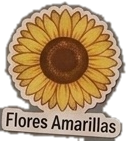
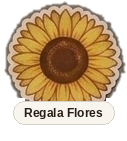
feat(hero): only modlovelace on closed door, modfin to the right, prominent poster, catjang-sue and regala flores stickers

Changed region(s): [[0.0, 0.6809, 0.9685, 1.0]]

diff --git a/src/components/sections/locker-hero.tsx b/src/components/sections/locker-hero.tsx
@@ -239,8 +239,8 @@ export function LockerHero() {
                   style={{
                     left: "64.5%",
                     top: "27.5%",
-                    width: "20%",
-                    aspectRatio: "240/115",
+                    width: "20.5%",
+                    aspectRatio: "243/149",
                     transformOrigin: "center center",
                     transitionDelay: stickersPopped ? "0ms" : "80ms",
                   }}
@@ -269,9 +269,9 @@ export function LockerHero() {
                   }`}
                   style={{
                     left: "66.5%",
-                    top: "39.5%",
-                    width: "11.5%",
-                    aspectRatio: "1/1",
+                    top: "40.5%",
+                    width: "12%",
+                    aspectRatio: "136/127",
                     transformOrigin: "center center",
                     transitionDelay: stickersPopped ? "90ms" : "40ms",
                   }}
@@ -291,7 +291,7 @@ export function LockerHero() {
                   </div>
                 </div>
 
-                {/* Pegatina 2: Flores Amarillas */}
+                {/* Pegatina 2: Regala Flores */}
                 <div
                   onClick={(e) => {
                     e.stopPropagation();
@@ -304,24 +304,24 @@ export function LockerHero() {
                   }`}
                   style={{
                     left: "73.5%",
-                    top: "49.5%",
-                    width: "13.5%",
-                    aspectRatio: "1/1",
+                    top: "51.0%",
+                    width: "12.5%",
+                    aspectRatio: "127/141",
                     transformOrigin: "center center",
                     transitionDelay: stickersPopped ? "170ms" : "0ms",
                   }}
-                  title="Flores Amarillas · Web Interactiva (Abrir proyecto)"
+                  title="Regala Flores · Web Interactiva (Abrir proyecto)"
                 >
                   <div className="relative w-full h-full transition-transform duration-300 ease-out hover:scale-125 hover:rotate-3 active:scale-105">
                     <Image
                       src="/images/sticker-sunflower.png"
-                      alt="Sticker Flores Amarillas"
+                      alt="Sticker Regala Flores"
                       fill
                       className="object-contain filter drop-shadow-[0_8px_14px_rgba(0,0,0,0.6)] group-hover/flower:drop-shadow-[0_12px_22px_rgba(245,158,11,0.65)] scale-110"
                     />
                     {/* Badge flotante tooltip */}
                     <div className="absolute -bottom-6 left-1/2 -translate-x-1/2 px-2.5 py-0.5 rounded-full bg-amber-600/95 text-[10px] font-mono font-semibold text-white whitespace-nowrap opacity-0 group-hover/flower:opacity-100 transition-opacity pointer-events-none shadow-lg shadow-amber-500/25 border border-amber-400/30">
-                      Flores Amarillas ↗
+                      Regala Flores ↗
                     </div>
                   </div>
                 </div>
@@ -424,7 +424,7 @@ export function LockerHero() {
                     <span>El Gato</span>
                     <span className="text-neutral-400">&amp;</span>
                     <img src="/images/sticker-sunflower.png" alt="Flores" className="w-3.5 h-3.5 object-contain inline" />
-                    <span>Las Flores</span>
+                    <span>Regala Flores</span>
                   </span>
                 </div>
               </div>
@@ -503,7 +503,7 @@ export function LockerHero() {
                   </div>
                 </div>
 
-                {/* 2. Regala Flores Amarillas (El de las flores) */}
+                {/* 2. Regala Flores (El de las flores) */}
                 <div className={`p-4 rounded-xl bg-neutral-50 dark:bg-neutral-900/80 border flex flex-col justify-between h-full transition-all duration-500 shadow-[0_1px_2px_rgba(0,0,0,0.04)] ${
                   stickersPopped
                     ? "border-amber-500/60 ring-1 ring-amber-500/20 shadow-md shadow-amber-500/5"
@@ -515,7 +515,7 @@ export function LockerHero() {
                       <div className="w-9 h-9 rounded-xl bg-neutral-100 dark:bg-neutral-800 border border-neutral-200 dark:border-neutral-700/80 flex items-center justify-center p-1 shadow-sm shrink-0 overflow-hidden">
                         <img
                           src="/images/sticker-sunflower.png"
-                          alt="Sticker Flores Amarillas"
+                          alt="Sticker Regala Flores"
                           className="w-full h-full object-contain filter drop-shadow-sm scale-105"
                         />
                       </div>
@@ -527,7 +527,7 @@ export function LockerHero() {
                     {/* Título y Subtítulo con ancho completo */}
                     <div>
                       <h3 className="text-sm font-bold text-[var(--foreground)] leading-tight">
-                        Flores Amarillas
+                        Regala Flores
                       </h3>
                       <p className="text-[11px] font-mono text-[var(--muted)] mt-0.5">
                         Web Interactiva con Audio
@@ -567,7 +567,7 @@ export function LockerHero() {
 
               {/* Pie interactivo de la tarjeta */}
               <div className="pt-2 text-[11px] font-mono text-[var(--muted)] flex flex-wrap items-center justify-between gap-x-3 gap-y-1 border-t border-[var(--border)]">
-                <span>{stickersPopped ? "✨ Pegatinas activas: Haz clic en el casillero o aquí" : isOpen ? "✨ Casillero abierto: Catjang, Flores & Modfin en cabina" : "💡 Toca el casillero para abrir y ver los detalles"}</span>
+                <span>{stickersPopped ? "✨ Pegatinas activas: Haz clic en el casillero o aquí" : isOpen ? "✨ Casillero abierto: Catjang, Regala Flores & Modfin en cabina" : "💡 Toca el casillero para abrir y ver los detalles"}</span>
                 <button
                   onClick={toggleLocker}
                   className="text-blue-600 dark:text-blue-400 hover:underline font-medium cursor-pointer"
